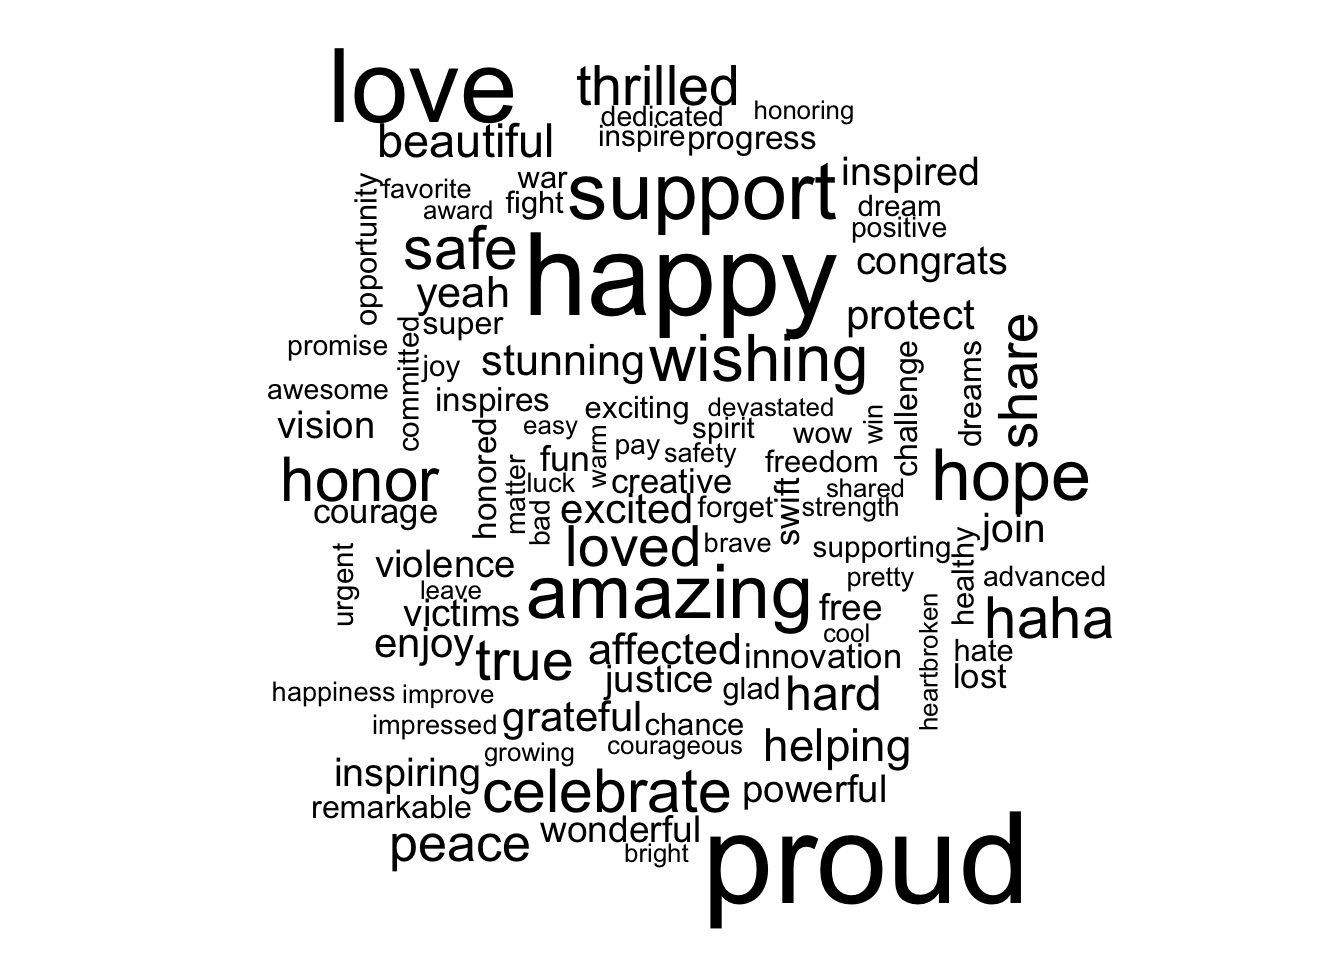
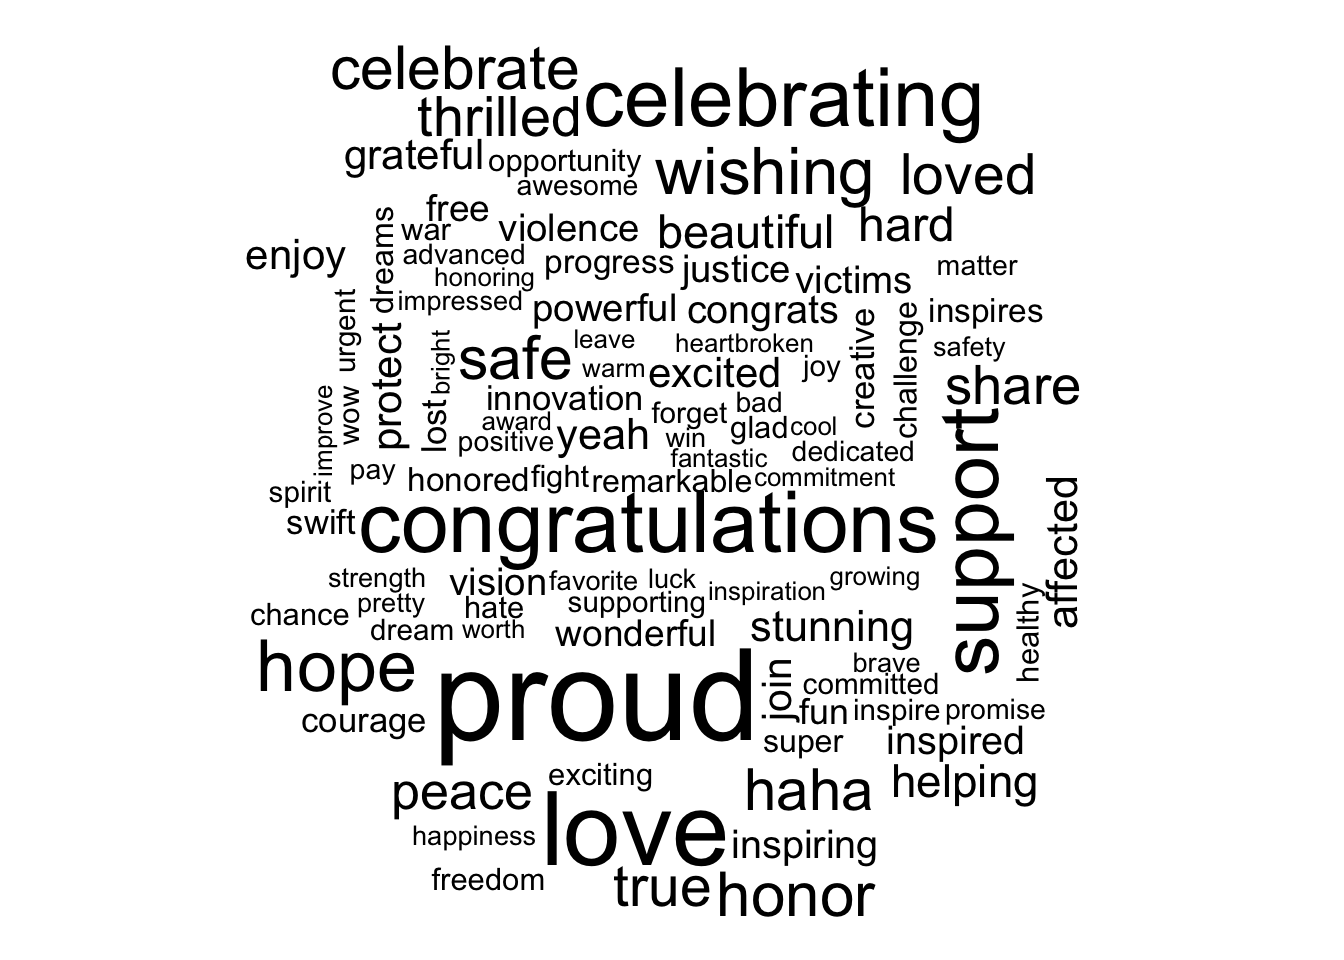
update

Changed region(s): [[0.1875, 0.0312, 0.8438, 0.9688]]

diff --git a/project.html b/project.html
@@ -306,13 +306,11 @@ $(document).ready(function () {
 
 <h1 class="title toc-ignore">The Twitter Analysis: Elon Musk and Tim Cook</h1>
 <h4 class="author">Electric Eels: Walid Hedidar, Aamia Malik, Michael Murphy, Jon Sirota, Cory Winkler, Jen Xue</h4>
-<h4 class="date">BDS-516 HW09 - April 25, 2021</h4>
+<h4 class="date">BDS-516 HW09 | April 25, 2021</h4>
 
 </div>
 
 
-<div id="in-this-report-we-analyze-elon-musks-and-tim-cooks-tweets." class="section level2">
-<h2>In this report, we analyze Elon Musk’s and Tim Cook’s tweets.</h2>
 <h2>
 Introduction
 </h2>
@@ -547,10 +545,10 @@ predictingtree &lt;- predictingtree %&gt;%
   count(word) %&gt;%
   with(wordcloud(word, n, max.words = 100))</code></pre>
 <pre><code>## Joining, by = &quot;word&quot;</code></pre>
-<pre><code>## Warning in wordcloud(word, n, max.words = 100): congratulations could not be fit
-## on page. It will not be plotted.</code></pre>
-<pre><code>## Warning in wordcloud(word, n, max.words = 100): celebrating could not be fit on
+<pre><code>## Warning in wordcloud(word, n, max.words = 100): amazing could not be fit on
 ## page. It will not be plotted.</code></pre>
+<pre><code>## Warning in wordcloud(word, n, max.words = 100): happy could not be fit on page.
+## It will not be plotted.</code></pre>
 <p><img src="project_files/figure-html/unnamed-chunk-8-1.png" width="672" /></p>
 <div id="we-split-our-data-into-train-data-tree_train-and-test-data-for-later-use-tree_test.-then-we-generate-a-decision-tree-first-using-tree_train." class="section level4">
 <h4>We split our data into train data, <code>tree_train</code>, and test data for later use, <code>tree_test</code>. Then, we generate a decision tree, first using <code>tree_train</code>.</h4>
@@ -605,7 +603,6 @@ confusionMatrix(as.factor(tree_test$user), as.factor(tweet_predict))</code></pre
 ##                                           
 ##        &#39;Positive&#39; Class : Elon            
 ## </code></pre>
-</div>
 </div>
 </div>
 <div id="lastly-we-applied-our-algorithm-to-two-completely-unrelated-users-joe-rogan-and-jojo-siwa." class="section level2">

diff --git a/index.html b/index.html
@@ -9,10 +9,10 @@
 <meta http-equiv="X-UA-Compatible" content="IE=EDGE" />
 
 
-<meta name="author" content="Jennifer Xue" />
+<meta name="author" content="Something fun to look at, before you look at some hundreds lines of code." />
 
 
-<title>Landing Page</title>
+<title>My cat</title>
 
 <script src="site_libs/jquery-1.11.3/jquery.min.js"></script>
 <meta name="viewport" content="width=device-width, initial-scale=1" />
@@ -304,14 +304,16 @@ $(document).ready(function () {
 
 
 
-<h1 class="title toc-ignore">Landing Page</h1>
-<h4 class="author">Jennifer Xue</h4>
-<h4 class="date">15/04/2021</h4>
+<h1 class="title toc-ignore">My cat</h1>
+<h4 class="author">Something fun to look at, before you look at some hundreds lines of code.</h4>
 
 </div>
 
 
-
+<div class="figure">
+<img src="/Users/jenniferxue/Desktop/Ace.png" alt="Ace" />
+<p class="caption">Ace</p>
+</div>
 
 
 
